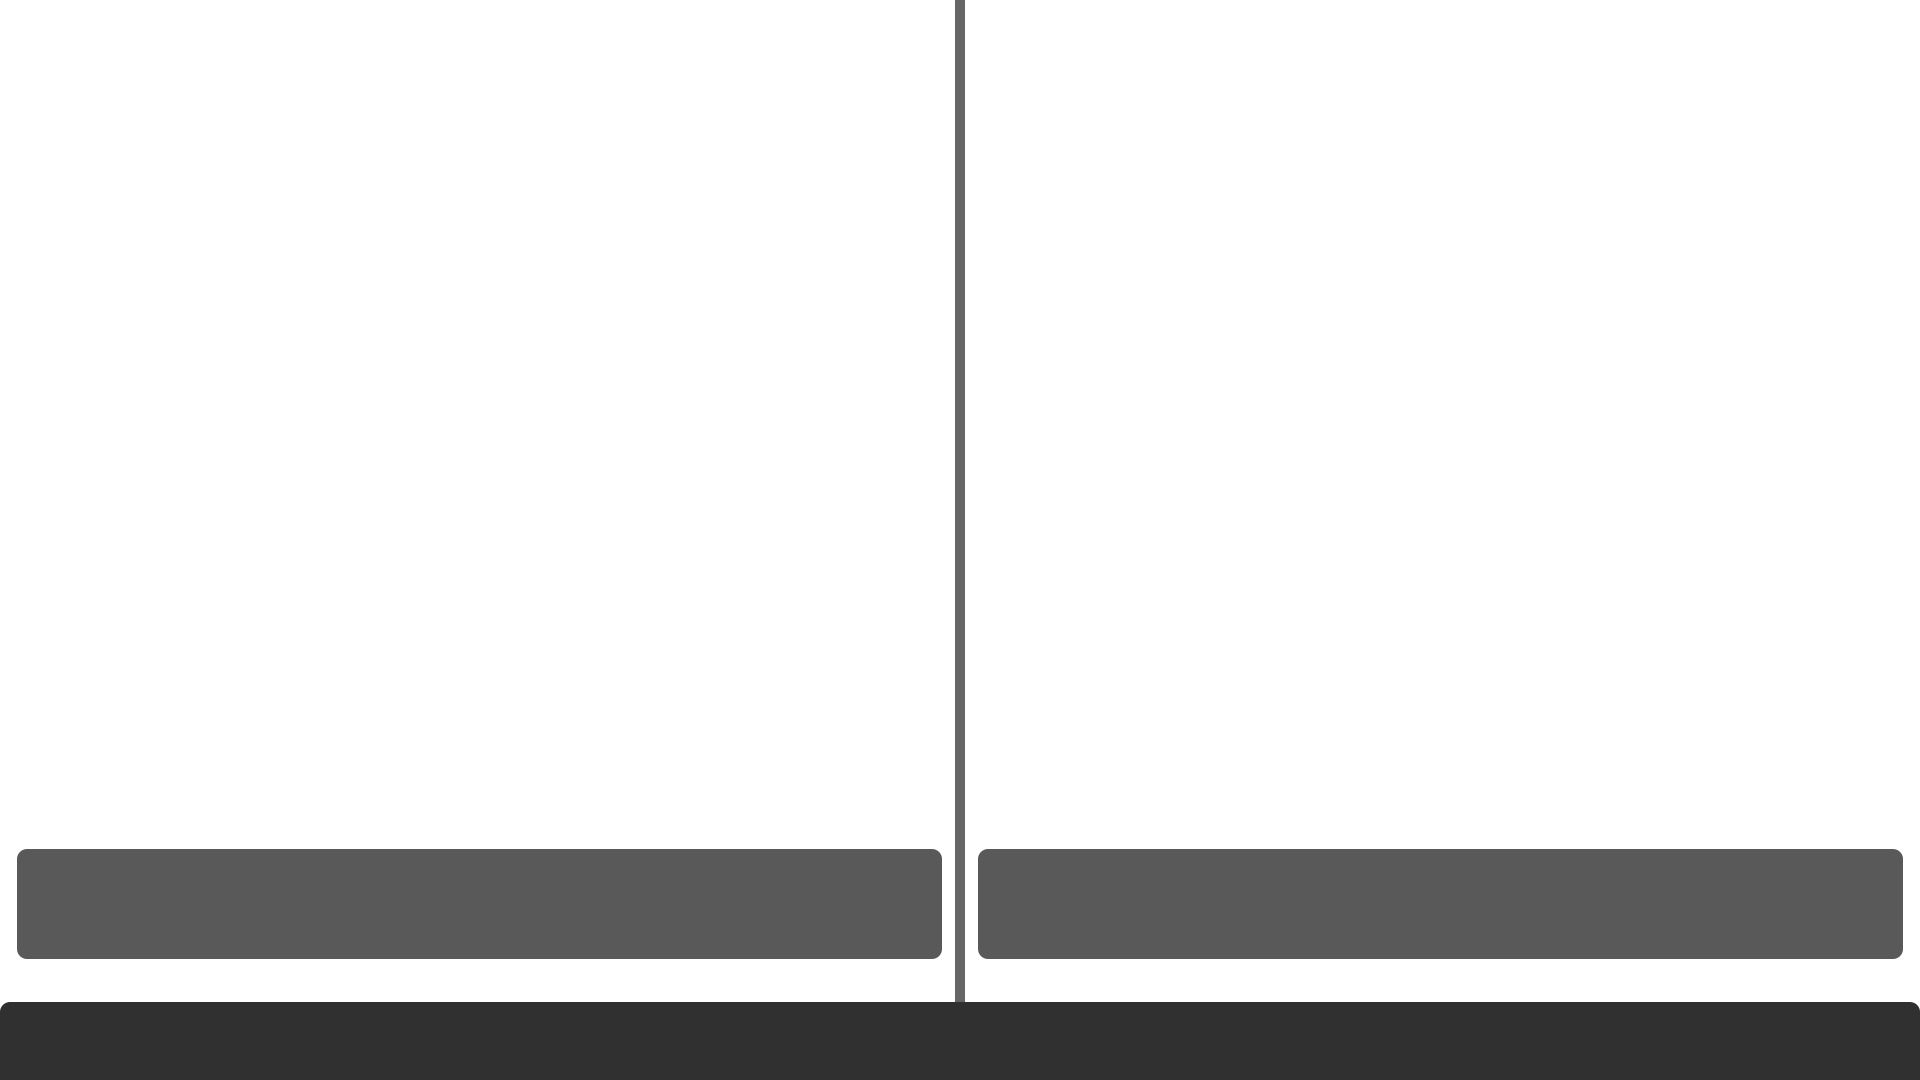
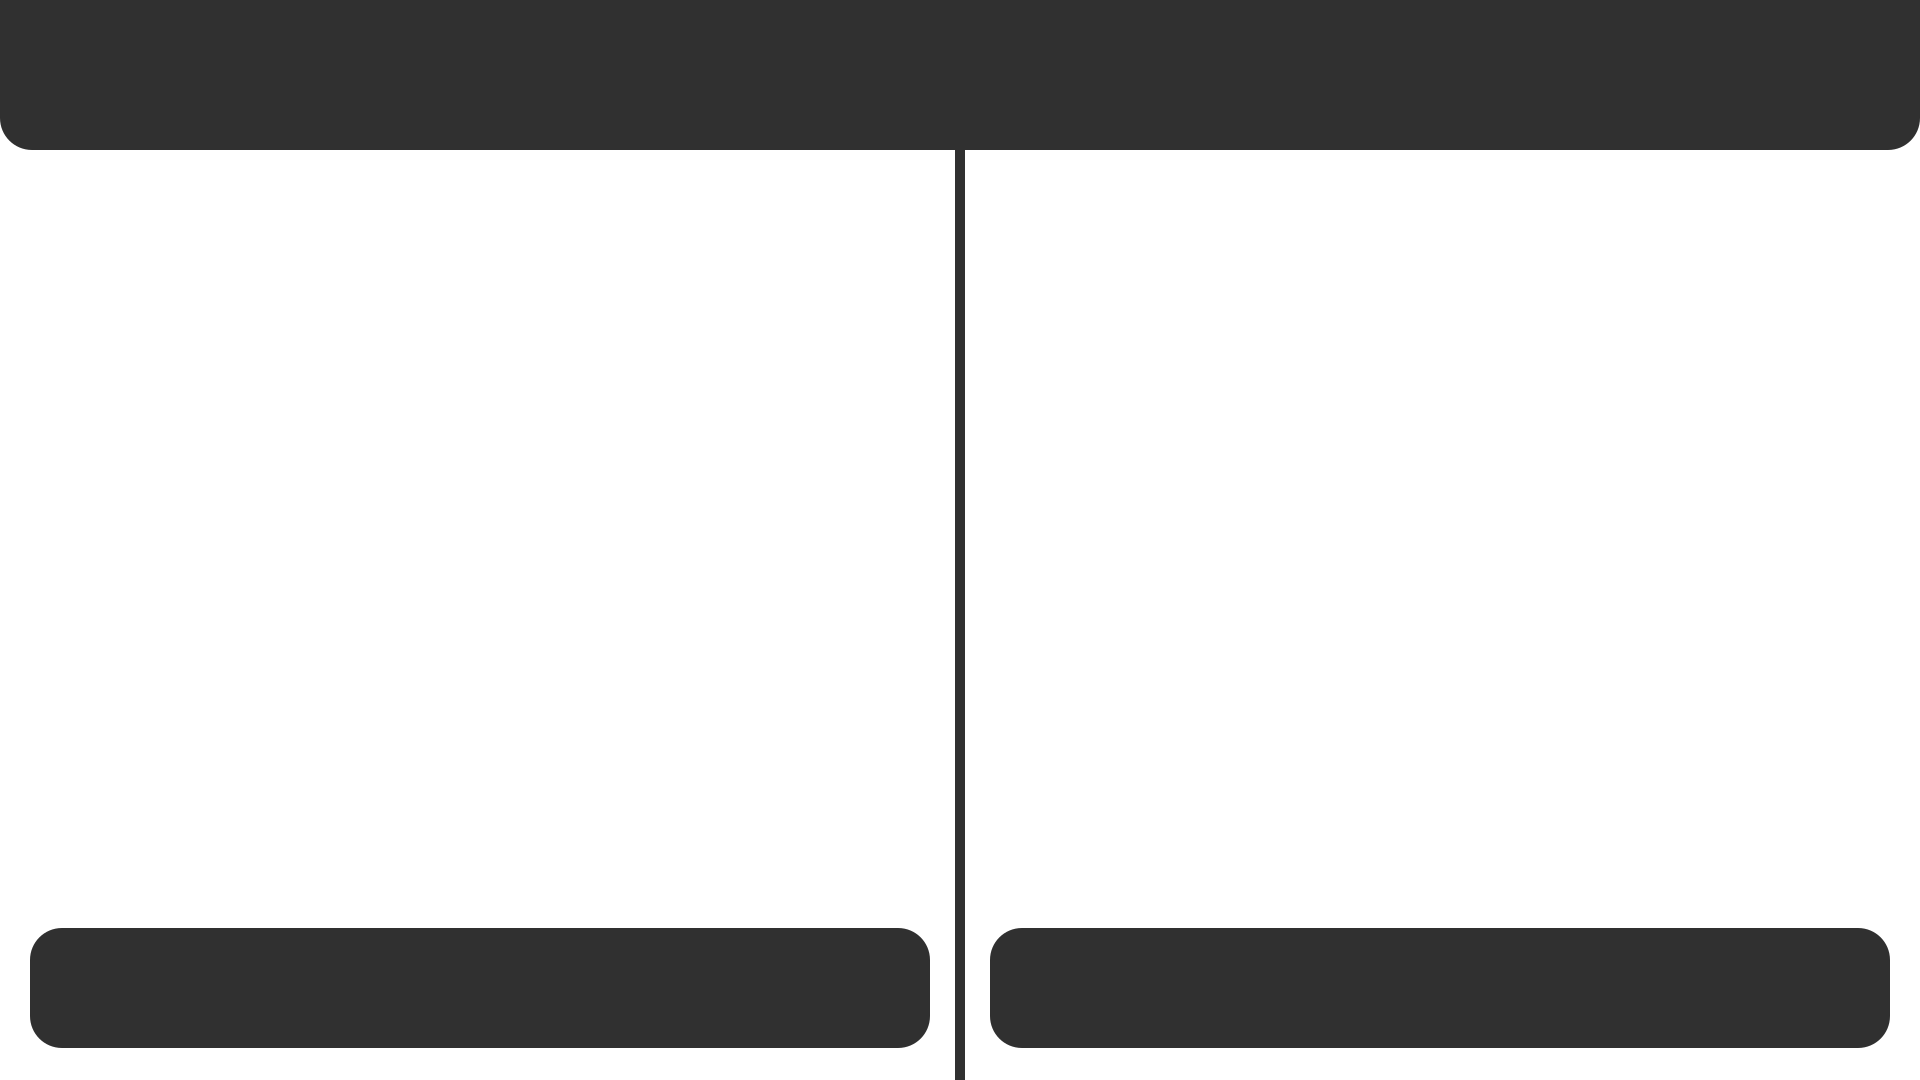
Add phase and match name, change design

diff --git a/src/thumbnail/main_generate_thumbnail.py b/src/thumbnail/main_generate_thumbnail.py
@@ -110,7 +110,8 @@ def resize_image_to_max_size(image: QPixmap, max_size, eyesight_coordinates=None
                 round(eyesight_coordinates[0]*x_ratio*zoom), round(eyesight_coordinates[1]*x_ratio*zoom))
 
     new_size = (round(new_x), round(new_y))
-    image = image.scaled(new_size[0], new_size[1])
+    image = image.scaled(
+        new_size[0], new_size[1], transformMode=Qt.TransformationMode.SmoothTransformation)
 
     # crop
     if not resized_eyesight:
@@ -168,7 +169,7 @@ def paste_image_matrix(thumbnail, path_matrix, max_size, paste_coordinates, eyes
 
     if (player_index == 1 and flip_p2) or (player_index == 0 and flip_p1):
         paste_coordinates = (
-            round(thumbnail.size[0]-paste_coordinates[0]-max_size[0]), paste_coordinates[1])
+            round(thumbnail.width()-paste_coordinates[0]-max_size[0]), paste_coordinates[1])
         thumbnail = thumbnail.transformed(QTransform().scale(-1, 1))
 
     for line_index in range(0, len(path_matrix)):
@@ -245,9 +246,12 @@ def paste_image_matrix(thumbnail, path_matrix, max_size, paste_coordinates, eyes
 def paste_characters(thumbnail, data, all_eyesight, used_assets, flip_p1=False, flip_p2=False, fill_x=True, fill_y=True, zoom=1):
     max_x_size = round(thumbnail.width()/2)
     max_y_size = thumbnail.height()
-    max_size = (max_x_size, max_y_size)
+    max_size = (max_x_size, max_y_size-118/1080*thumbnail.height())
     origin_x_coordinates = [0, max_x_size]
-    origin_y_coordinates = [0, 0]
+    origin_y_coordinates = [
+        118/1080*thumbnail.height(),
+        118/1080*thumbnail.height()
+    ]
 
     for i in [0, 1]:
         team_index = i+1
@@ -281,6 +285,11 @@ def paste_characters(thumbnail, data, all_eyesight, used_assets, flip_p1=False, 
                 except KeyError:
                     None
             if character_list:
+                # For team 1, characters must come from the center
+                # so we have to reverse the array
+                if i == 0:
+                    character_list.reverse()
+                    eyesight_list.reverse()
                 path_matrix.append(character_list)
                 eyesight_matrix.append(eyesight_list)
 
@@ -337,21 +346,83 @@ def reduce_text_size_to_width(thumbnail, font_path, text_size, text, max_width, 
     #     return(reduce_text_size_to_width(thumbnail, font_path, text_size-1, text, max_width, recursion_level+1))
 
 
+def draw_text(thumbnail, text, font, max_font_size, color, pos, container_size, outline, outline_color):
+    painter = QPainter(thumbnail)
+    painter.setRenderHint(QPainter.RenderHint.Antialiasing)
+
+    font = QFont(font, max_font_size)
+
+    fontMetrics = QFontMetricsF(font)
+
+    while(fontMetrics.height() > int(container_size[1]*thumbnail.height())):
+        max_font_size -= 1
+        font.setPixelSize(max_font_size)
+        fontMetrics = QFontMetricsF(font)
+
+    while(fontMetrics.width(text) > int(container_size[0]*thumbnail.width())):
+        max_font_size -= 1
+        font.setPixelSize(max_font_size)
+        fontMetrics = QFontMetricsF(font)
+
+    text_x = round(pos[0]*thumbnail.width())
+    text_y = round(pos[1]*thumbnail.height())
+    text_coordinates = (text_x, text_y)
+
+    if outline:
+        stroke_width = round(8*(thumbnail.height()/1080))
+    else:
+        stroke_width = 0
+
+    path = QPainterPath()
+
+    painter.setFont(font)
+
+    pen = QPen()
+    pen.setWidth(stroke_width)
+    pen.setColor(QColor(
+        outline_color[0],
+        outline_color[1],
+        outline_color[2]
+    ))
+    painter.setPen(pen)
+
+    painter.setBrush(QColor(
+        color[0],
+        color[1],
+        color[2]
+    ))
+
+    path.addText(
+        int(text_coordinates[0]) +
+        container_size[0]*thumbnail.width() /
+        2 - fontMetrics.width(text)/2,
+        int(text_coordinates[1]) + fontMetrics.height()/4 +
+        container_size[1]*thumbnail.height()/2,
+        font,
+        text
+    )
+
+    painter.drawPath(path)
+
+    pen.setWidth(0)
+    pen.setColor(QColor(0, 0, 0, 0))
+    painter.setPen(pen)
+    painter.drawPath(path)
+
+    painter.end()
+
+
 def paste_player_text(thumbnail, data, use_team_names=False, use_sponsors=True):
     text_player_coordinates = [
-        (17/1920, 849/1080),
-        (978/1920, 849/1080)
+        (30/1920, 928/1080),
+        (990/1920, 928/1080)
     ]
-    text_player_max_dimensions = (925/1920, 110/1080)
-    pixel_height = round(text_player_max_dimensions[1]*thumbnail.height())
-    max_width = round(text_player_max_dimensions[0]*thumbnail.width())
+    text_player_max_dimensions = (900/1920, 120/1080)
+
     font_path = font_1
     # get_text_size_for_height(thumbnail, font_path, pixel_height)
     text_size = 40
     player_text_color = text_color[0]
-
-    painter = QPainter(thumbnail)
-    painter.setRenderHint(QPainter.RenderHint.Antialiasing)
 
     for i in [0, 1]:
         team_index = i+1
@@ -379,116 +450,68 @@ def paste_player_text(thumbnail, data, use_team_names=False, use_sponsors=True):
 
         print(f"Processing {player_type}: {player_name}")
 
-        # actual_text_size = reduce_text_size_to_width(
-        #     thumbnail, font_path, text_size, player_name, max_width)
-        actual_text_size = 40
-        font = QFont(font_path, actual_text_size)
-
-        fontMetrics = QFontMetricsF(font)
-
-        while(fontMetrics.width(player_name) > int(text_player_max_dimensions[0]*thumbnail.width())):
-            actual_text_size -= 1
-            font.setPixelSize(actual_text_size)
-            fontMetrics = QFontMetricsF(font)
-
-        text_x = round(text_player_coordinates[i][0]*thumbnail.width())
-        text_y = round(text_player_coordinates[i][1]*thumbnail.height())
-        text_coordinates = (text_x, text_y)
-
-        outline_color = player_text_color["outline_color"]
-        if player_text_color["has_outline"]:
-            stroke_width = round(8*(thumbnail.height()/1080))
-        else:
-            stroke_width = 0
-
-        path = QPainterPath()
-
-        painter.setFont(font)
-
-        pen = QPen()
-        pen.setWidth(stroke_width)
-        pen.setColor(QColor(
-            player_text_color["outline_color"][0],
-            player_text_color["outline_color"][1],
-            player_text_color["outline_color"][2]
-        ))
-        painter.setPen(pen)
-
-        painter.setBrush(QColor(
-            player_text_color["font_color"][0],
-            player_text_color["font_color"][1],
-            player_text_color["font_color"][2]
-        ))
-
-        path.addText(
-            int(text_coordinates[0]) +
-            text_player_max_dimensions[0]*thumbnail.width() /
-            2 - fontMetrics.width(player_name)/2,
-            int(text_coordinates[1]) + fontMetrics.height()/4 +
-            text_player_max_dimensions[1]*thumbnail.height()/2,
-            font,
-            player_name
+        draw_text(
+            thumbnail,
+            player_name,
+            font_path,
+            text_size,
+            player_text_color["font_color"],
+            text_player_coordinates[i],
+            text_player_max_dimensions,
+            player_text_color["has_outline"],
+            player_text_color["outline_color"]
         )
-
-        painter.drawPath(path)
-
-        pen.setWidth(0)
-        pen.setColor(QColor(0, 0, 0, 0))
-        painter.setPen(pen)
-        painter.drawPath(path)
-    painter.end()
 
 
 def paste_round_text(thumbnail, data, display_phase=True):
-    pass
-    # phase_text_coordinates_center = (960.0/1920.0, 1008.0/1080.0)
-    # round_text_coordinates_center = (960.0/1920.0, 1052.0/1080.0)
-    # text_max_dimensions = (480.0/1920.0, 40.0/1080.0)
-    # round_text_color = text_color[1]
-    # outline_color = round_text_color["outline_color"]
-    # if round_text_color["has_outline"]:
-    #     stroke_width = 2*(thumbnail.height()/1080)
-    # else:
-    #     stroke_width = 0
+    if display_phase:
+        phase_text_pos = (0.0/1920.0, 0.0/1080.0)
+        round_text_pos = (960.0/1920.0, 0.0/1080.0)
 
-    # if not display_phase:
-    #     round_text_coordinates_center = (round_text_coordinates_center[0], (
-    #         round_text_coordinates_center[1] + phase_text_coordinates_center[1])/2)
-    #     text_max_dimensions = (
-    #         text_max_dimensions[0], text_max_dimensions[1]*2)
-    #     stroke_width = stroke_width*2
+        text_max_dimensions = (960.0/1920.0, 150.0/1080.0)
 
-    # stroke_width = round(stroke_width)
+        text_size = 40
 
-    # pixel_height = round(text_max_dimensions[1]*thumbnail.height())
-    # max_width = round(text_max_dimensions[0]*thumbnail.width())
-    # font_path = font_2
-    # text_size = get_text_size_for_height(thumbnail, font_path, pixel_height)
+        draw_text(
+            thumbnail,
+            find(f"score.phase", data),
+            font_2,
+            text_size,
+            text_color[1]["font_color"],
+            phase_text_pos,
+            text_max_dimensions,
+            text_color[1]["has_outline"],
+            text_color[1]["outline_color"]
+        )
 
-    # draw = ImageDraw.Draw(thumbnail)
+        draw_text(
+            thumbnail,
+            find(f"score.match", data),
+            font_2,
+            text_size,
+            text_color[1]["font_color"],
+            round_text_pos,
+            text_max_dimensions,
+            text_color[1]["has_outline"],
+            text_color[1]["outline_color"]
+        )
+    else:
+        round_text_pos = (0.0/1920.0, 0.0/1080.0)
+        text_max_dimensions = (1920.0/1920.0, 150.0/1080.0)
 
-    # if display_phase:
-    #     current_phase = find(f"score.phase", data)
+        text_size = 40
 
-    #     actual_text_size = reduce_text_size_to_width(
-    #         thumbnail, font_path, text_size, current_phase, max_width)
-    #     font = ImageFont.truetype(font_path, actual_text_size)
-    #     text_x = round(phase_text_coordinates_center[0]*thumbnail.size[0])
-    #     text_y = round(phase_text_coordinates_center[1]*thumbnail.size[1])
-    #     text_coordinates = (text_x, text_y)
-    #     draw.text(text_coordinates, current_phase,
-    #               round_text_color["font_color"], font=font, anchor="mm", stroke_width=round(stroke_width*(actual_text_size/text_size)), stroke_fill=outline_color)
-
-    # current_round = find(f"score.match", data)
-
-    # actual_text_size = reduce_text_size_to_width(
-    #     thumbnail, font_path, text_size, current_round, max_width)
-    # font = ImageFont.truetype(font_path, actual_text_size)
-    # text_x = round(round_text_coordinates_center[0]*thumbnail.size[0])
-    # text_y = round(round_text_coordinates_center[1]*thumbnail.size[1])
-    # text_coordinates = (text_x, text_y)
-    # draw.text(text_coordinates, current_round,
-    #           round_text_color["font_color"], font=font, anchor="mm", stroke_width=round(stroke_width*(actual_text_size/text_size)), stroke_fill=outline_color)
+        draw_text(
+            thumbnail,
+            find(f"score.match", data),
+            font_2,
+            text_size,
+            text_color[1]["font_color"],
+            round_text_pos,
+            text_max_dimensions,
+            text_color[1]["has_outline"],
+            text_color[1]["outline_color"]
+        )
 
 
 def paste_main_icon(thumbnail, icon_path):
@@ -500,10 +523,12 @@ def paste_main_icon(thumbnail, icon_path):
         icon_image = QPixmap(icon_path, 'RGBA')
         icon_size = calculate_new_dimensions(icon_image.size(), max_size)
         icon_image = icon_image.transformed(
-            QTransform().scale(icon_size[0]/icon_image.width(), icon_size[1]/icon_image.height()))
+            QTransform().scale(
+                icon_size[0]/icon_image.width(), icon_size[1]/icon_image.height()),
+            Qt.TransformationMode.SmoothTransformation)
 
         icon_x = round(thumbnail.width()/2 - icon_size[0]/2)
-        icon_y = round(thumbnail.height()*(6.0/1080.0))
+        icon_y = round(thumbnail.height()*(200.0/1080.0))
         icon_coordinates = (icon_x, icon_y)
         composite_image = create_composite_image(
             icon_image, thumbnail.size(), icon_coordinates)
@@ -789,7 +814,7 @@ def generate(settingsManager, isPreview=False):
     painter.end()
 
     paste_player_text(thumbnail, data, use_team_names, use_sponsors)
-    # paste_round_text(thumbnail, data, display_phase)
+    paste_round_text(thumbnail, data, display_phase)
     thumbnail = paste_main_icon(thumbnail, main_icon_path)
     # thumbnail = paste_side_icon(thumbnail, side_icon_list)
 
